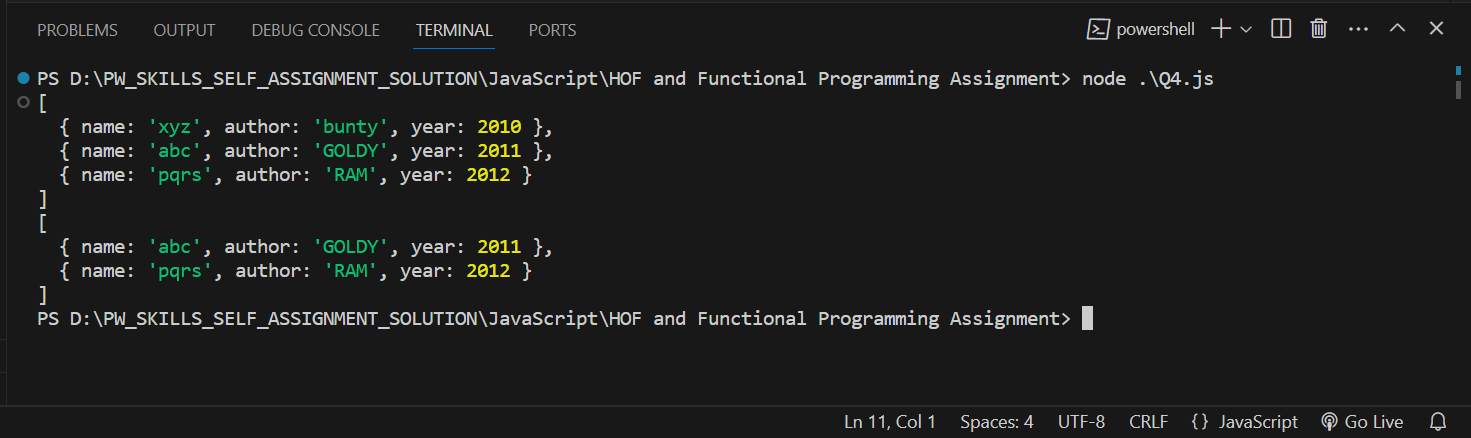
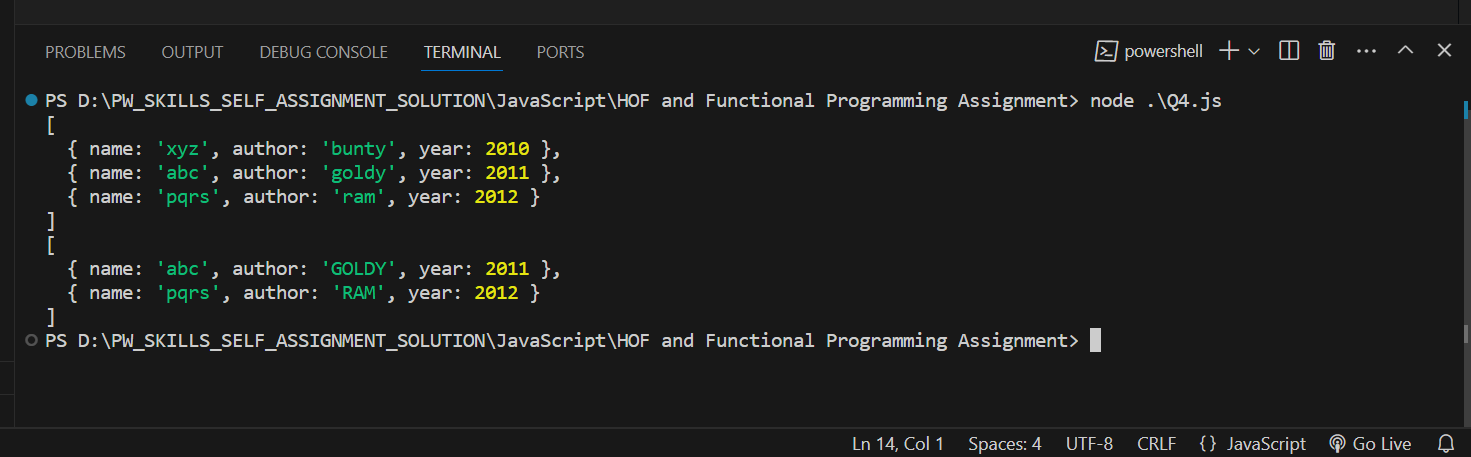
all good

diff --git a/Q4.js b/Q4.js
@@ -5,10 +5,13 @@ let list = [
 ]
 
 let newarr=list.filter((value)=>value.year>2010)
-newarr.forEach((value)=>{
-    value.author=value.author.toUpperCase()
-})
+let result=newarr.map((value)=>(
+    {
+    ...value,
+    author:value.author.toUpperCase()
+    } 
+))
 
 console.log(list)
 
-console.log(newarr)
+console.log(result)

diff --git a/Q3.js b/Q3.js
@@ -4,13 +4,8 @@ let list = [
     { name: "hair oil", price: 60 }
 ]
 
-let newlist=[]
 
-list.map((value)=>{ 
-    let obj={}
-obj.name=value.name
-obj.price=value.price*80
-newlist.push(obj)
-})
+let newlist=list.map((value)=>({...value,price:value.price*80}))
+
 console.log(list)
 console.log(newlist)
